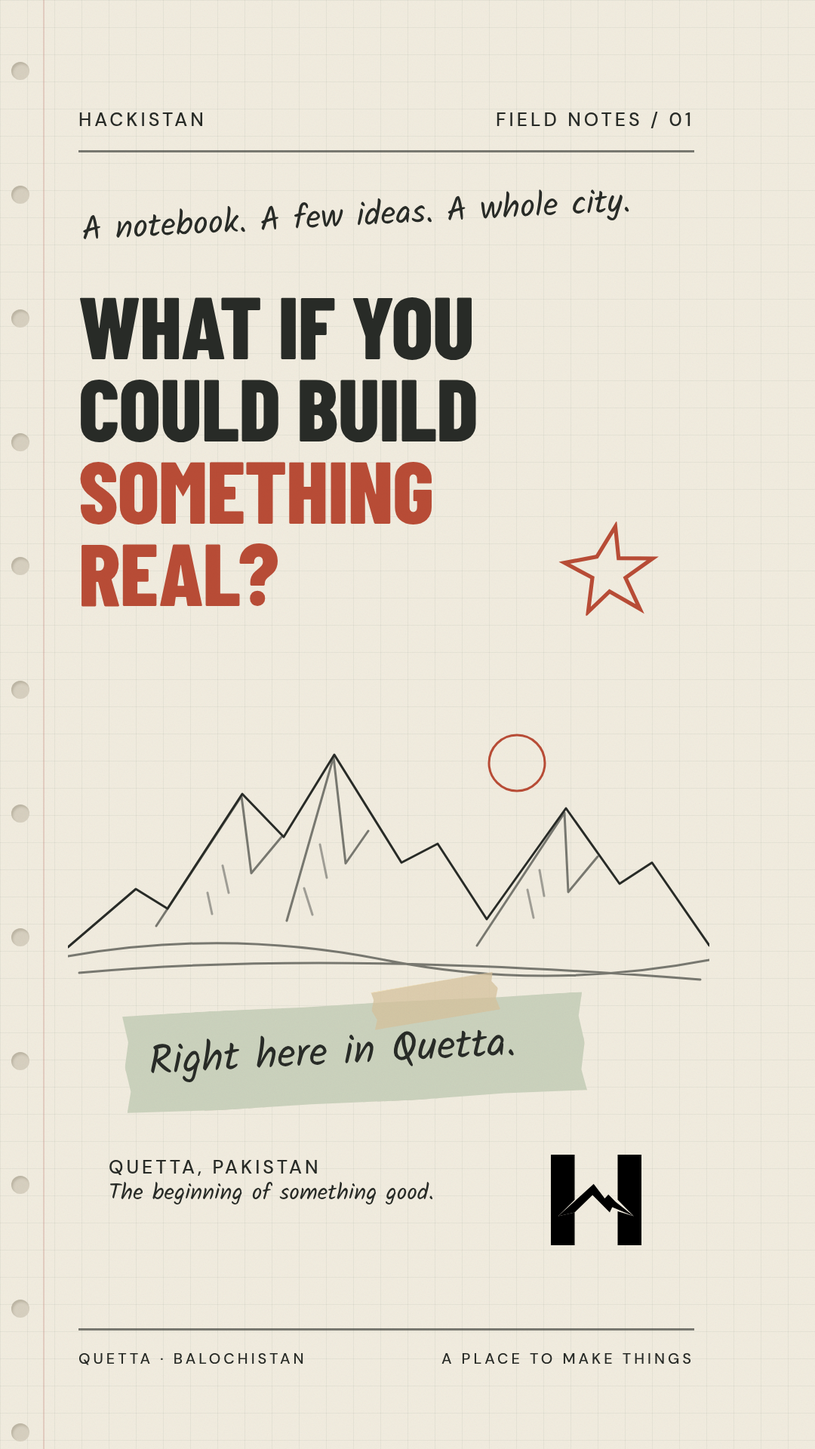
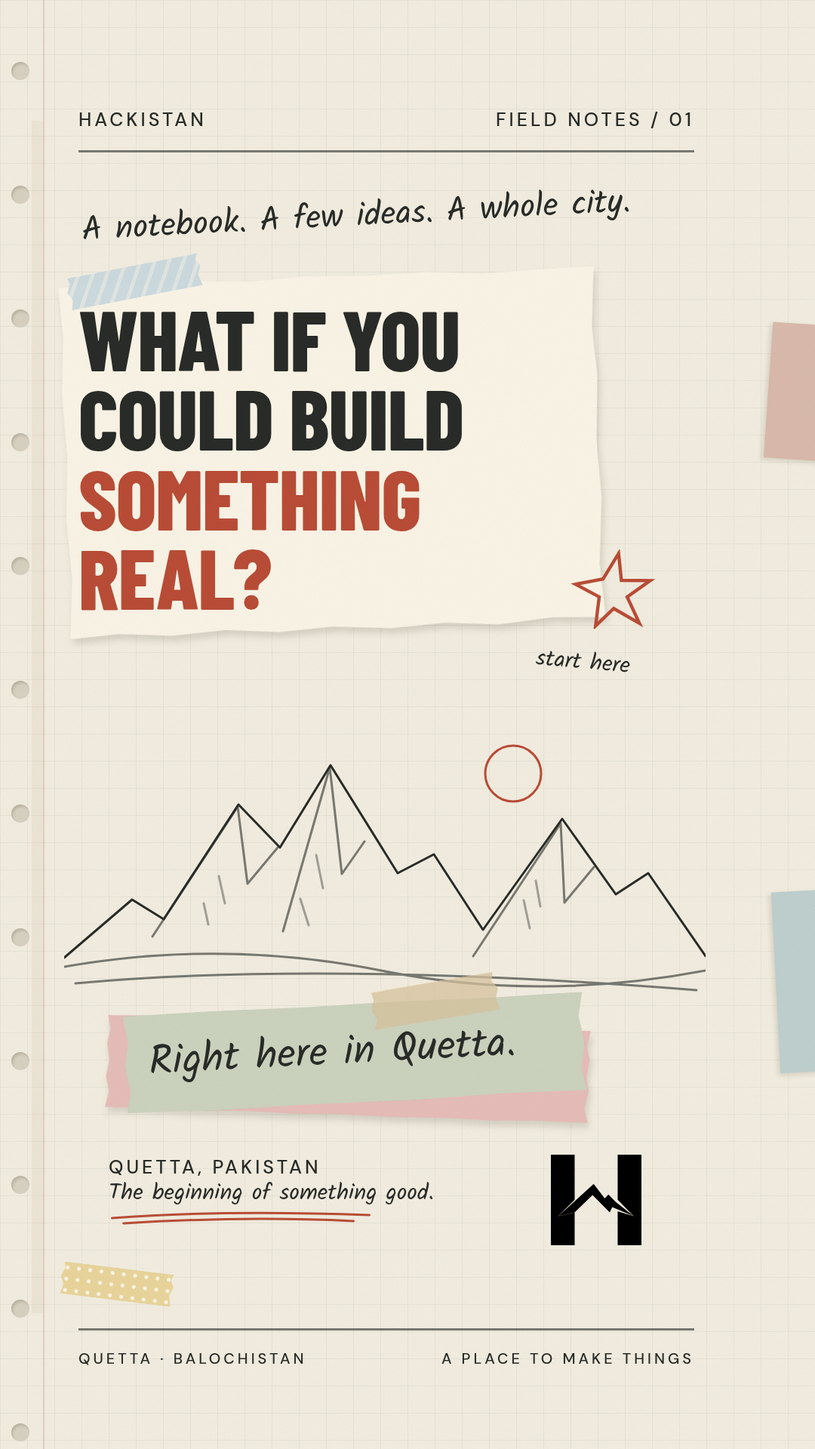
Refine storyboard into layered handmade scrapbook collage

diff --git a/video/src/scenes.tsx b/video/src/scenes.tsx
@@ -1,42 +1,93 @@
 import {Box,Hand,Tape,TornPaper,Mountains,Star,DrawnArrow,AssetSlot,PolaroidCard,Sketch,NotebookPage,Sticker,CheckItem,red,sage} from './components';
+import {Scrap,Washi,Clip,Stamp,Underline,Tag,PencilRoute,colors} from './collage';
+
 export const Hook=()=> <NotebookPage n={1}>
 <Box x={108} y={260} rotate={-3}><Hand size={44}>A notebook. A few ideas. A whole city.</Hand></Box>
-<Box x={104} y={375} w={810}><div className="display" style={{fontSize:116}}>WHAT IF YOU<br/>COULD BUILD<br/><span style={{color:red}}>SOMETHING<br/>REAL?</span></div></Box>
-<Box x={739} y={690} rotate={12}><Star size={130}/></Box><Box x={90} y={945} w={850}><Mountains/></Box>
+<Box x={85} y={365} w={710} rotate={-2}><Scrap color="#f9f3e5" height={470}/></Box><Washi x={88} y={352} w={180} rotate={-11} color={colors.blue}/>
+<Box x={104} y={395} w={810}><div className="display" style={{fontSize:112}}>WHAT IF YOU<br/>COULD BUILD<br/><span style={{color:red}}>SOMETHING<br/>REAL?</span></div></Box>
+<Box x={755} y={727} rotate={12}><Star size={110}/></Box><Box x={710} y={860} rotate={5}><Hand size={30}>start here</Hand></Box>
+<Box x={85} y={959} w={850}><Mountains/></Box>
+<Box x={141} y={1355} w={640} rotate={2}><Scrap color={colors.pink} height={123}/></Box>
 <Box x={165} y={1330} w={610} rotate={-3}><TornPaper color={sage}><Hand size={54}>Right here in Quetta.</Hand></TornPaper><Tape x={330}/></Box>
-<Box x={144} y={1530} w={460}><div className="label">QUETTA, PAKISTAN</div><Hand size={30}>The beginning of something good.</Hand></Box>
-<Box x={670} y={1530} w={240}><AssetSlot asset="hackistan" label="Hackistan logo" height={120}/></Box></NotebookPage>;
+<Box x={144} y={1530} w={460}><div className="label">QUETTA, PAKISTAN</div><Hand size={30}>The beginning of something good.</Hand><Underline width={350}/></Box>
+<Box x={670} y={1530} w={240}><AssetSlot asset="hackistan" label="Hackistan logo" height={120}/></Box><Washi x={80} y={1680} w={150} rotate={7} color={colors.yellow} pattern="dots"/>
+</NotebookPage>;
+
 export const Meet=()=> <NotebookPage n={2}>
-<Box x={110} y={266}><Hand size={48}>Meet the people behind the pages.</Hand></Box>
-<Box x={113} y={376} w={790} rotate={-2}><TornPaper><AssetSlot asset="hackistan" label="Authentic Hackistan logo" height={240}/><div className="display" style={{fontSize:134,marginTop:24}}>HACKISTAN</div><div style={{fontSize:39,marginTop:18}}>A HACK CLUB IN QUETTA</div></TornPaper><Tape x={90} rotate={-13}/><Tape x={580} rotate={12}/></Box>
-<Box x={133} y={970} w={710}><Hand size={58}>Student-led.<br/>Built around making.</Hand></Box><Box x={595} y={991} rotate={-8}><DrawnArrow/></Box>
-<Box x={135} y={1190} w={760}><svg width="760" height="150" viewBox="0 0 760 150"><path d="M60 80C200-70 360 190 650 55" fill="none" stroke="#737b66" strokeWidth="4" strokeDasharray="10 13"/><circle cx="60" cy="80" r="14" fill={red}/><circle cx="650" cy="55" r="12" fill={red}/></svg><div style={{display:'flex',justifyContent:'space-between',fontSize:29}}><span>QUETTA</span><span>A GLOBAL MAKER COMMUNITY</span></div></Box>
-<Box x={120} y={1460} w={420} rotate={2}><AssetSlot asset="hackclub" label="Official Hack Club flag" height={160}/></Box><Box x={653} y={1450} w={250} rotate={8}><Sticker asset="orpheus" label="Orpheus sticker"/></Box></NotebookPage>;
+<Box x={110} y={260}><Hand size={46}>Meet the people behind the pages.</Hand></Box>
+<Box x={103} y={394} w={805} rotate={4}><Scrap color={colors.blue} pattern="ruled" height={565}/></Box>
+<Box x={163} y={370} w={730} rotate={-5}><Scrap color={colors.pink} height={570}/></Box>
+<Box x={113} y={376} w={790} rotate={-2}><Scrap><AssetSlot asset="hackistan" label="Authentic Hackistan logo" height={235}/><div className="display" style={{fontSize:134,marginTop:24}}>HACKISTAN</div><div style={{fontSize:39,marginTop:18}}>A HACK CLUB IN QUETTA</div></Scrap><Tape x={90} rotate={-13}/><Washi x={580} y={-10} rotate={12} color={colors.yellow}/></Box>
+<Box x={805} y={420} rotate={14}><Clip/></Box>
+<Box x={145} y={974} w={550} rotate={-4}><Scrap color={colors.yellow} pattern="ruled"><Hand size={51}>Student-led.<br/>Built around making.</Hand></Scrap></Box>
+<Box x={688} y={895} w={215} rotate={9}><Sticker asset="orpheus" label="Orphmoji Yippee" height={230}/></Box>
+<Box x={110} y={1240} w={785} rotate={2}><Scrap pattern="ruled" style={{padding:'25px 30px',height:336}}><div className="label" style={{fontSize:22}}>FROM QUETTA, WITH IDEAS</div><svg width="710" height="100" viewBox="0 0 710 100"><path d="M25 65C180-50 360 150 655 35" fill="none" stroke="#737b66" strokeWidth="3" strokeDasharray="9 10"/><circle cx="25" cy="65" r="9" fill={red}/><circle cx="655" cy="35" r="9" fill={red}/></svg><div style={{display:'flex',justifyContent:'space-between',fontSize:25}}><span>QUETTA</span><span>GLOBAL MAKER COMMUNITY</span></div></Scrap><Tape x={530} rotate={10}/></Box>
+<Box x={145} y={1455} w={390} rotate={-8}><AssetSlot asset="hackclub" label="Official Hack Club flag" height={155}/></Box>
+<Box x={570} y={1495} w={320} rotate={5}><Tag>Find your people.</Tag></Box>
+<Box x={140} y={1640} w={760} rotate={-2}><Hand size={35}>A club for curious minds & busy hands.</Hand></Box>
+</NotebookPage>;
+
 export const Projects=()=> <NotebookPage n={3}>
-<Box x={108} y={261}><div className="display" style={{fontSize:115}}>LESS TALK.<br/><span style={{color:red}}>MORE MAKING.</span></div></Box>
-<Box x={117} y={550} w={475} rotate={-5}><PolaroidCard asset="boba" title="01 / Boba Drops" caption="A member-made website" height={220}/></Box>
-<Box x={485} y={883} w={435} rotate={5}><PolaroidCard asset="bake" title="02 / BakeBuild" caption="CAD-designed cookie cutters" height={220}/></Box>
-<Box x={123} y={1215} w={475} rotate={-3}><PolaroidCard asset="jame" title="03 / Jame Gam" caption="A game made by our team" height={190}/></Box>
-<Box x={647} y={605} rotate={9}><Hand size={38}>From an idea<br/>to a real thing.</Hand><DrawnArrow/></Box>
-<Box x={120} y={985} w={140} rotate={-8}><Sticker asset="bobaSticker" label="Boba Drops sticker" height={180}/></Box><Box x={280} y={1060} rotate={-8}><Hand size={33}>Made here.</Hand></Box><Box x={650} y={1375} w={240} rotate={3}><Hand size={43} color={red}>Built by<br/>teenagers<br/>in Quetta.</Hand></Box></NotebookPage>;
-const Note=({kind,title,color='#faf6ea'}:{kind:number;title:string;color?:string})=><TornPaper color={color} style={{height:242,padding:26}}><Sketch kind={kind}/><Hand size={38}>{title}</Hand></TornPaper>;
+<Box x={96} y={267} w={810}><div className="display" style={{fontSize:109}}>LESS TALK.<br/><span style={{color:red}}>MORE MAKING.</span></div></Box><Washi x={714} y={300} w={180} rotate={14} color={colors.pink}/>
+<Box x={98} y={513} w={650} rotate={2}><Scrap color={colors.blue} height={370}/></Box>
+<Box x={110} y={497} w={630} rotate={-4}><PolaroidCard asset="boba" title="01 / Boba Drops" caption="A member-made website" height={250}/></Box>
+<Box x={725} y={565} w={180} rotate={8}><Scrap color={colors.yellow}><Hand size={31}>idea →<br/>website!</Hand></Scrap></Box>
+<Box x={758} y={735} w={145} rotate={12}><Sticker asset="bobaSticker" label="Boba Drops sticker" height={190}/></Box>
+<Box x={360} y={882} w={570} rotate={-4}><Scrap color={colors.pink} pattern="ruled" height={414}/></Box>
+<Box x={385} y={896} w={540} rotate={4}><PolaroidCard asset="bake" title="02 / BakeBuild" caption="" height={265}/></Box><Washi x={760} y={895} w={150} rotate={14} color={colors.blue} pattern="check"/>
+<Box x={103} y={953} w={235} rotate={-8}><Tag>Made here.</Tag><Hand size={34}>CAD →<br/>cookie cutters</Hand><DrawnArrow/></Box>
+<Box x={126} y={1285} w={665} rotate={3}><Scrap color={sage} height={362}/></Box>
+<Box x={105} y={1270} w={660} rotate={-3}><PolaroidCard asset="jame" title="03 / Jame Gam" caption="A game made by our team" height={250}/></Box>
+<Box x={790} y={1370} w={130} rotate={8}><Sticker asset="godot" label="Godot Juice" height={175}/></Box>
+<Box x={625} y={1645} w={315} rotate={-4}><Stamp>BUILT IN QUETTA</Stamp></Box><Box x={135} y={1680}><Hand size={30}>Built by teenagers.</Hand></Box>
+</NotebookPage>;
+
+const Idea=({kind,title,note,color=colors.ivory,height=250}:{kind:number;title:string;note?:string;color?:string;height?:number})=><Scrap color={color} pattern="ruled" height={height} style={{padding:23}}><Sketch kind={kind}/><Hand size={40}>{title}</Hand>{note?<Hand size={25} color="#5e665b">{note}</Hand>:null}</Scrap>;
 export const Create=()=> <NotebookPage n={4}>
-<Box x={108} y={270} w={810}><div className="display" style={{fontSize:112}}>WHAT WILL<br/><span style={{color:red}}>YOU MAKE?</span></div><Hand size={43}>Six starting points. Your own direction.</Hand></Box>
-<Box x={122} y={639} w={355} rotate={-5}><Note kind={0} title="Coding"/></Box><Box x={548} y={684} w={348} rotate={4}><Note kind={1} title="Web development" color={sage}/></Box>
-<Box x={144} y={955} w={355} rotate={3}><Note kind={2} title="Game development" color="#e9c5b2"/></Box><Box x={547} y={1004} w={348} rotate={-4}><Note kind={3} title="CAD"/></Box>
-<Box x={127} y={1278} w={355} rotate={-3}><Note kind={4} title="PCB design"/></Box><Box x={553} y={1321} w={348} rotate={4}><Note kind={5} title="3D printing" color={sage}/></Box>
-<Box x={796} y={542} w={120} rotate={12}><Sticker asset="godot" label="Godot Juice sticker" height={150}/></Box><Box x={757} y={1202} w={150} rotate={-8}><Sticker asset="solder" label="Soldering sticker" height={135}/></Box>
-<Box x={160} y={1615} rotate={-2}><Hand size={43}>Experiment. Make mistakes. Try again.</Hand></Box></NotebookPage>;
+<Box x={105} y={265}><div className="display" style={{fontSize:105}}>WHAT WILL<br/><span style={{color:red}}>YOU MAKE?</span></div></Box>
+<Box x={610} y={309} w={295} rotate={7}><Scrap color={colors.yellow}><Hand size={35}>ideas for<br/>a rainy day...</Hand><Star size={45}/></Scrap></Box>
+<Box x={110} y={515}><Hand size={37}>Start anywhere. Follow your curiosity.</Hand></Box>
+<Box x={125} y={628} w={390} rotate={-9}><Idea kind={0} title="Coding" note="one line at a time" color={colors.blue} height={252}/><Tape x={80}/></Box>
+<Box x={468} y={700} w={448} rotate={5}><Idea kind={1} title="Web development" note="put your idea online" height={260}/><Washi x={240} y={-15} color={colors.pink}/></Box>
+<Box x={92} y={945} w={490} rotate={-3}><Idea kind={2} title="Game development" note="make a world of your own" color={colors.pink} height={265}/></Box>
+<Box x={476} y={955} w={110} rotate={12}><Sticker asset="godot" label="Godot Juice" height={150}/></Box>
+<Box x={655} y={1075} w={245} rotate={10}><Idea kind={3} title="CAD" color={colors.yellow} height={220}/><Box x={175} y={-25} rotate={-8}><Clip/></Box></Box>
+<Box x={140} y={1270} w={370} rotate={-7}><Idea kind={4} title="PCB design" color={sage} height={260}/><Washi x={70} y={-15} color={colors.blue}/></Box>
+<Box x={475} y={1372} w={420} rotate={5}><Idea kind={5} title="3D printing" note="from screen to something real" height={270}/></Box>
+<Box x={346} y={1220} w={190} rotate={-13}><Sticker asset="solder" label="Soldering" height={180}/></Box>
+<Box x={538} y={610} rotate={-15}><Hand size={30}>what if...?</Hand><Underline width={140}/></Box>
+<Box x={555} y={1160}><PencilRoute w={150} h={195} d="M5 5Q110 55 55 173m-16-15 16 15 18-19"/></Box>
+<Box x={105} y={1585} w={340} rotate={-4}><Tag>Try. Tinker. Repeat.</Tag></Box>
+<Box x={180} y={1690}><Hand size={31}>Good ideas leave pencil marks.</Hand></Box>
+</NotebookPage>;
+
 export const Opportunities=()=> <NotebookPage n={5}>
-<Box x={108} y={270}><div className="display" style={{fontSize:106}}>SMALL STARTS.<br/><span style={{color:red}}>REAL POSSIBILITIES.</span></div></Box>
-<Box x={120} y={564} w={775} rotate={-3}><TornPaper><div className="label" style={{color:red}}>AT HACKISTAN</div><Hand size={58}>Learn by doing.</Hand><div style={{fontSize:41,lineHeight:1.5}}><CheckItem checked>Hands-on workshops</CheckItem><CheckItem checked>Make things together</CheckItem><CheckItem>Your next project</CheckItem></div></TornPaper><Tape x={550}/></Box>
-<Box x={148} y={990} w={730} rotate={3}><TornPaper color={sage}><div className="label">THROUGH HACK CLUB PROGRAMS</div><Hand size={54}>Build on your own, too.</Hand><div style={{fontSize:38,lineHeight:1.45,marginTop:14}}>Grow useful skills.<br/>Build your portfolio.<br/>Explore eligible rewards & grants.</div><div style={{fontSize:25,marginTop:25,borderTop:'1px solid #777d6c',paddingTop:14}}>Program criteria apply. Opportunities vary.</div></TornPaper><Tape x={70} rotate={10}/></Box>
-<Box x={163} y={1510} rotate={-5}><Hand size={63} color={red}>Ship your project!</Hand></Box><Box x={730} y={1475} w={155} rotate={8}><Sticker asset="ship" label="Ship sticker" height={155}/></Box></NotebookPage>;
+<Box x={100} y={259} w={825}><div className="display" style={{fontSize:96}}>SMALL STARTS.<br/><span style={{color:red}}>REAL POSSIBILITIES.</span></div></Box><Box x={104} y={460}><Underline width={400}/></Box>
+<Box x={133} y={570} w={725} rotate={4}><Scrap color={colors.blue} pattern="grid" height={354}/></Box>
+<Box x={102} y={552} w={720} rotate={-4}><Scrap pattern="ruled"><div className="label" style={{color:red,fontSize:23}}>AT HACKISTAN</div><Hand size={56}>Learn by doing.</Hand><div style={{fontSize:36,lineHeight:1.55}}><CheckItem checked>Hands-on workshops</CheckItem><CheckItem checked>Make things together</CheckItem><CheckItem>Your next project</CheckItem></div></Scrap><Tape x={50}/></Box>
+<Box x={755} y={625} w={175} rotate={12}><Sticker asset="journal" label="Journpheus" height={240}/></Box>
+<Box x={137} y={930} w={385} rotate={-7}><Tag color={colors.pink}>Keep a project notebook.</Tag></Box>
+<Box x={123} y={1055} w={785} rotate={-2}><Scrap color={colors.yellow} height={570}/></Box>
+<Box x={156} y={1040} w={742} rotate={2}><Scrap color={sage} height={570}><div className="label" style={{fontSize:22}}>THROUGH HACK CLUB PROGRAMS</div><Hand size={50}>Build independently.</Hand></Scrap><Washi x={460} y={-14} color={colors.blue} pattern="check"/></Box>
+<Box x={115} y={1200} w={420} rotate={-7}><Scrap pattern="ruled" height={235}><Hand size={44}>Useful skills.<br/>A growing portfolio.</Hand><Underline width={280}/><Hand size={26}>Save what you make.</Hand></Scrap></Box>
+<Box x={545} y={1240} w={340} rotate={6}><Scrap color={colors.pink} height={238} style={{padding:22}}><div className="label" style={{fontSize:20}}>EXPLORE</div><Hand size={40}>Eligible rewards<br/>& grants</Hand><div style={{fontSize:23,marginTop:9}}>Program criteria apply.<br/>Opportunities vary.</div></Scrap></Box>
+<Box x={182} y={1475} w={395} rotate={-5}><AssetSlot asset="hackclub" label="Hack Club flag" height={110}/><Hand size={27}>A wider maker community.</Hand></Box>
+<Box x={683} y={1465} w={170} rotate={8}><Sticker asset="ship" label="Ship" height={180}/></Box>
+<Box x={150} y={1660} w={650} rotate={-2}><Hand size={45} color={red}>Make something. Then share it.</Hand></Box>
+</NotebookPage>;
+
 export const Join=()=> <NotebookPage n={6}>
-<Box x={112} y={270} rotate={-3}><Hand size={47}>You don’t need to be an expert.</Hand></Box>
-<Box x={135} y={390} w={740} rotate={2}><TornPaper><AssetSlot asset="hackistan" label="Authentic Hackistan logo" height={205}/></TornPaper><Tape x={75}/></Box>
-<Box x={113} y={740} w={810}><div className="display" style={{fontSize:101}}>THE NEXT THING<br/>WE BUILD COULD<br/>BE <span style={{color:red}}>YOURS.</span></div></Box>
-<Box x={155} y={1090} rotate={-3}><Hand size={51}>Just bring an idea.</Hand></Box>
+<Box x={112} y={263} rotate={-3}><Hand size={47}>You don’t need to be an expert.</Hand></Box>
+<Box x={112} y={419} w={760} rotate={-4}><Scrap color={colors.blue} pattern="ruled" height={270}/></Box>
+<Box x={135} y={390} w={740} rotate={2}><Scrap><AssetSlot asset="hackistan" label="Authentic Hackistan logo" height={205}/></Scrap><Tape x={75}/><Washi x={540} y={-6} color={colors.pink} rotate={10}/></Box>
+<Box x={748} y={575} w={180} rotate={8}><Tag>Made in Quetta</Tag></Box>
+<Box x={113} y={740} w={810}><div className="display" style={{fontSize:101}}>THE NEXT THING<br/>WE BUILD COULD<br/>BE <span style={{color:red}}>YOURS.</span></div><Underline width={470}/></Box>
+<Box x={134} y={1085} w={540} rotate={-4}><Scrap color={colors.yellow} style={{padding:'15px 25px'}}><Hand size={48}>Just bring an idea.</Hand></Scrap></Box><Box x={723} y={1085}><Star size={90}/></Box>
+<Box x={94} y={1276} w={805} rotate={2}><Scrap color={colors.pink} height={150}/></Box>
 <Box x={116} y={1250} w={788} rotate={-2}><TornPaper color={red} style={{padding:'38px 28px',textAlign:'center'}}><div className="display" style={{fontSize:98,color:'#fff8e7'}}>JOIN HACKISTAN</div></TornPaper></Box>
-<Box x={288} y={1445} w={450}><div style={{fontSize:41,letterSpacing:8,textAlign:'center'}}>LINK IN BIO</div></Box>
-<Box x={100} y={1555} w={220} rotate={-9} style={{padding:12,background:"#fffaf0",boxShadow:"2px 5px 8px #282b2720"}}><Tape x={25} y={-16} rotate={5}/><AssetSlot asset="boba" label="Project photo" height={118}/></Box><Box x={764} y={1560} w={180} rotate={8}><Sticker asset="orpheus" label="Sticker"/></Box><Box x={423} y={1570}><Star size={75}/></Box></NotebookPage>;
+<Box x={288} y={1450} w={450}><div style={{fontSize:41,letterSpacing:8,textAlign:'center'}}>LINK IN BIO</div></Box>
+<Box x={100} y={1570} w={230} rotate={-9} style={{padding:12,background:'#fffaf0',boxShadow:'2px 5px 8px #282b2720'}}><Tape x={25} y={-16} rotate={5}/><AssetSlot asset="boba" label="Project photo" height={118}/></Box>
+<Box x={306} y={1558} w={235} rotate={7} style={{padding:12,background:'#fffaf0',boxShadow:'2px 5px 8px #282b2720'}}><AssetSlot asset="jame" label="Jame Gam photo" height={118}/><Washi x={50} y={-15} color={colors.blue} w={120}/></Box>
+<Box x={750} y={1530} w={180} rotate={8}><Sticker asset="orpheus" label="Orpheus" height={190}/></Box>
+<Box x={575} y={1585} w={150} rotate={-6}><Hand size={32}>Your page<br/>is next.</Hand><Underline width={140}/></Box>
+</NotebookPage>;

diff --git a/video/src/components.tsx b/video/src/components.tsx
@@ -6,7 +6,7 @@ export const Box=({x=0,y=0,w,rotate=0,children,style={}}:{x?:number;y?:number;w?
 export const Hand=({children,size=40,color=ink}:{children:React.ReactNode;size?:number;color?:string})=><div className="hand" style={{fontSize:size,color}}>{children}</div>;
 export const Tape=({x=0,y=-24,rotate=-7}:{x?:number;y?:number;rotate?:number})=><Box x={x} y={y} w={170} rotate={rotate} style={{height:52,background:'#d6c29cbb',clipPath:'polygon(2% 0,98% 3%,96% 25%,100% 45%,97% 70%,99% 100%,0 96%,3% 72%,0 46%,3% 21%)',borderTop:'1px solid #f6e6bf'}}/>;
 export const PaperTexture=()=> <svg className="grain" width="1080" height="1920"><filter id="grain"><feTurbulence type="fractalNoise" baseFrequency=".65" numOctaves="3" seed="17" stitchTiles="stitch"/></filter><rect width="100%" height="100%" filter="url(#grain)" opacity=".45"/></svg>;
-export const NotebookPage=({n,children}:{n:number;children:React.ReactNode})=><AbsoluteFill className="page grid"><div style={{position:'absolute',left:57,top:0,height:'100%',borderLeft:'2px solid #bd716740'}}/>{Array.from({length:12},(_,i)=><div key={i} style={{position:'absolute',left:15,top:82+i*164,width:24,height:24,borderRadius:20,background:'#d7d0c0',boxShadow:'inset 2px 3px 3px #71665140'}}/>)}<Box x={104} y={142} w={816}><div className="label">HACKISTAN <span style={{float:'right'}}>FIELD NOTES / 0{n}</span></div><div className="rule" style={{marginTop:24}}/></Box>{children}<Box x={104} y={1760} w={816}><div className="rule"/><div className="label" style={{marginTop:24,fontSize:20}}>QUETTA · BALOCHISTAN <span style={{float:'right'}}>A PLACE TO MAKE THINGS</span></div></Box><PaperTexture/></AbsoluteFill>;
+export const NotebookPage=({n,children}:{n:number;children:React.ReactNode})=><AbsoluteFill className="page grid"><div style={{position:'absolute',left:57,top:0,height:'100%',borderLeft:'2px solid #bd716740'}}/>{Array.from({length:12},(_,i)=><div key={i} style={{position:'absolute',left:15,top:82+i*164,width:24,height:24,borderRadius:20,background:'#d7d0c0',boxShadow:'inset 2px 3px 3px #71665140'}}/>)}<div style={{position:"absolute",left:1018,top:430,width:110,height:180,rotate:"4deg",background:"#d8b9aa",boxShadow:"-3px 3px 6px #40301b24"}}/><div style={{position:"absolute",left:1028,top:1180,width:90,height:240,rotate:"-3deg",background:"#becfcd",boxShadow:"-3px 3px 6px #40301b24"}}/><div style={{position:"absolute",left:42,top:160,width:15,height:1580,background:"#a88d6e15"}}/><Box x={104} y={142} w={816}><div className="label">HACKISTAN <span style={{float:'right'}}>FIELD NOTES / 0{n}</span></div><div className="rule" style={{marginTop:24}}/></Box>{children}<Box x={104} y={1760} w={816}><div className="rule"/><div className="label" style={{marginTop:24,fontSize:20}}>QUETTA · BALOCHISTAN <span style={{float:'right'}}>A PLACE TO MAKE THINGS</span></div></Box><PaperTexture/></AbsoluteFill>;
 export const TornPaper=({children,color='#faf6ea',style={}}:{children:React.ReactNode;color?:string;style?:React.CSSProperties})=><div className="paper" style={{background:color,padding:32,clipPath:'polygon(0 1%,18% 0,39% 1%,60% 0,82% 1%,100% 0,99% 24%,100% 51%,99% 78%,100% 99%,82% 98%,63% 100%,40% 99%,20% 100%,0 98%,1% 77%,0 52%,1% 27%)',...style}}>{children}</div>;
 export const Mountains=()=> <svg width="100%" viewBox="0 0 850 380" fill="none" stroke={ink} strokeWidth="3" strokeLinecap="round" strokeLinejoin="round"><path d="M0 310 90 233 132 259 231 107 286 164 353 55 442 198 490 173 555 273 660 126 731 226 774 198 850 308"/><path d="m117 282 113-172 13 102 40-48m7 111 62-217 16 141 30-43m144 152 116-176 5 105 39-47M0 322q211-37 420 5t430 0M15 344q330-30 823 9" opacity=".6"/><path d="m205 202 8 36m-28 0 6 28m143-92 9 44m-30 14 11 35m301-59 6 34m-22-8 8 37" opacity=".4"/><circle cx="595" cy="66" r="37" stroke={red}/></svg>;
 export const Star=({size=90}:{size?:number})=><svg width={size} height={size} viewBox="0 0 100 100"><path d="m49 5 10 31 34-7-23 25 21 28-34-11-17 25-3-35-31-9 31-13Z" fill="none" stroke={red} strokeWidth="4"/></svg>;

diff --git a/video/src/collage.tsx b/video/src/collage.tsx
@@ -1,0 +1,11 @@
+import React from 'react';
+import {Box,Hand,ink,red} from './components';
+export const colors={ivory:'#fff8e7',pink:'#e5bcb8',blue:'#c3d5dc',yellow:'#e6cf8d',sage:'#cbd2bd'};
+// Repeated materials, with deliberately irregular cut edges and local paper shadows.
+export const Scrap=({children,color=colors.ivory,pattern='plain',height,style={}}:{children?:React.ReactNode;color?:string;pattern?:'plain'|'ruled'|'grid';height?:number;style?:React.CSSProperties})=><div style={{filter:'drop-shadow(3px 7px 5px #453d282a)'}}><div style={{position:'relative',backgroundColor:color,height,padding:28,backgroundImage:pattern==='ruled'?'repeating-linear-gradient(0deg,transparent 0px,transparent 37px,#56685b28 38px,transparent 39px)':pattern==='grid'?'linear-gradient(#536a7220 1px,transparent 1px),linear-gradient(90deg,#536a7220 1px,transparent 1px)':undefined,backgroundSize:pattern==='grid'?'27px 27px':undefined,clipPath:'polygon(0 1%,7% 0,15% 1.1%,25% .2%,36% 1%,46% 0,57% .5%,69% 0,79% 1%,90% .3%,100% 0,99.3% 17%,100% 31%,99.4% 49%,100% 65%,99.2% 84%,100% 99%,90% 98.5%,80% 100%,70% 99%,60% 100%,49% 99%,39% 100%,29% 98.9%,19% 100%,9% 99%,0 100%,.7% 83%,0 66%,.6% 49%,0 31%,.6% 15%)',...style}}>{children}</div></div>;
+export const Washi=({x=0,y=0,w=180,rotate=0,color=colors.pink,pattern='stripe'}:{x?:number;y?:number;w?:number;rotate?:number;color?:string;pattern?:'stripe'|'dots'|'check'})=><Box x={x} y={y} w={w} rotate={rotate} style={{height:43,opacity:.83,backgroundColor:color,backgroundImage:pattern==='stripe'?'repeating-linear-gradient(120deg,transparent 0 13px,#fff8e769 13px 18px)':pattern==='dots'?'radial-gradient(#fff8e7 2px,transparent 3px)':'repeating-linear-gradient(90deg,transparent 0 16px,#fff8e75a 16px 19px),repeating-linear-gradient(0deg,transparent 0 16px,#fff8e75a 16px 19px)',backgroundSize:pattern==='dots'?'15px 15px':undefined,clipPath:'polygon(2% 0,99% 0,97% 20%,100% 40%,97% 65%,99% 100%,1% 100%,3% 70%,0 45%,3% 20%)'}}/>;
+export const Clip=()=> <svg width="45" height="116" viewBox="0 0 45 116" style={{filter:'drop-shadow(2px 2px 1px #0003)'}}><path d="M13 85V19q0-12 10-12t10 12v74q0 15-14 15T5 93V25m11 0v65q0 5 5 5t5-5V22" stroke="#847d6d" fill="none" strokeWidth="4"/><path d="M13 85V19q0-12 10-12t10 12v74" stroke="#e4dfd0" fill="none" strokeWidth="1"/></svg>;
+export const Stamp=({children,color=red}:{children:React.ReactNode;color?:string})=><div style={{border:`3px solid ${color}`,outline:`1px solid ${color}`,outlineOffset:-8,padding:'15px 21px',color,fontSize:24,letterSpacing:3,fontFamily:'Barlow Condensed',fontWeight:800,textAlign:'center',opacity:.85}}>{children}</div>;
+export const Underline=({width=300}:{width?:number})=><svg width={width} height="25" viewBox="0 0 300 25" preserveAspectRatio="none"><path d="M4 13Q128 2 296 9M17 20Q152 10 278 17" stroke={red} strokeWidth="3" fill="none" strokeLinecap="round"/></svg>;
+export const Tag=({children,color=colors.yellow}:{children:React.ReactNode;color?:string})=><div style={{position:'relative',background:color,padding:'16px 22px 16px 48px',boxShadow:'3px 4px 5px #453d2820',clipPath:'polygon(22px 0,100% 0,100% 100%,22px 100%,0 50%)'}}><span style={{position:'absolute',left:16,top:'45%',width:9,height:9,borderRadius:'50%',background:'#e9e2d3',boxShadow:'inset 1px 1px 2px #0005'}}/><Hand size={31}>{children}</Hand></div>;
+export const PencilRoute=({d,w=400,h=220}:{d:string;w?:number;h?:number})=><svg width={w} height={h} viewBox={`0 0 ${w} ${h}`}><path d={d} fill="none" stroke={ink} strokeWidth="2.6" strokeDasharray="7 8" strokeLinecap="round" opacity=".65"/></svg>;

diff --git a/video/src/config.ts b/video/src/config.ts
@@ -18,5 +18,8 @@ export const assets: Record<string,string|null> = {
  godot:'assets/stickers/Godot Juice.webp',
  solder:'assets/stickers/Soldering.webp',
  bobaSticker:'assets/stickers/Boba Drops.webp',
+ journal:'assets/stickers/Journpheus.webp',
+ laptops:'assets/stickers/Orpheus and Heidi Laptops.webp',
+ nest:'assets/stickers/Nest Hatched Smolpheus.webp',
  members:null,
 };

diff --git a/docs/STORYBOARD.md b/docs/STORYBOARD.md
@@ -16,3 +16,19 @@ These are representative finished layouts, not yet animation keyframes. No motio
 Uploaded logos, project images and authentic stickers are now used throughout. Scene 03 preserves the real projects and their framing. Scene 04 combines original notebook sketches with supplied Godot and soldering stickers. Scene 05 uses drawn ink checkboxes and the supplied Ship sticker; it omits the optional workshop photograph because none was supplied. Jame Gam remains limited by the resolution of the supplied screenshot.
 
 Reusable pieces: NotebookPage, PaperTexture, TornPaper, PolaroidCard, Tape, Sticker, Hand, DrawnArrow, Mountains, Sketch, AssetSlot. Frame-based SketchReveal, AnimatedCaption and SceneTransition belong to Phase B. Geometry and paper grain are deterministic; there is no Math.random, CSS animation or asynchronous remote font loading.
+
+
+## Revision 2 — tactile collage refinement
+
+The six pages share ivory, charcoal, rust, sage, dusty pink, pale blue and muted yellow. Recurring ruled inserts, double pencil underlines, hand-cut tags, patterned washi, paper clips and edge tabs establish one notebook world. Original branding and screenshots remain unaltered.
+
+- **01:** retains the large question and mountains, adding a taped headline scrap, layered location label and a small pencil note.
+- **02:** stacks pink/blue paper behind the logo, tucks Orpheus into the student-led note, and assembles a correspondence-style Quetta/community insert with a flag and tag.
+- **03:** enlarges all three project image areas; overlaps Polaroids and colored backing sheets, with Boba peeking out and a CAD annotation beside BakeBuild. All project images and titles remain recognizable. The prior frame remains accessible in Git history.
+- **04:** replaces equal grid tiles with staggered, varied scraps. Godot touches the game note, soldering overlaps the PCB page, and a pencil connection runs toward the 3D printing note.
+- **05:** replaces long paragraphs with a workshop checklist, a notebook tag and a grouped Hack Club program collage: skills/portfolio insert, eligibility note, official flag and Ship sticker. Journpheus joins the local checklist. The program heading and eligibility qualifications remain visible.
+- **06:** retains the logo, headline and red CTA; adds layered backing, a location tag, memo note and overlapping callbacks to the website/game projects.
+
+Reference availability: fetched both GitHub branches and inspected repository/shared files; no newly mentioned scrapbook reference images were available. This revision follows the user's detailed written direction and the existing authentic asset collection. A location was requested asynchronously; no reference-specific match is claimed.
+
+All deliverables remain static. Animation, transitions and timed captions are not implemented or approved.

diff --git a/docs/VALIDATION.md b/docs/VALIDATION.md
@@ -15,3 +15,13 @@ Completed on 13 November 2026. Static storyboard approval is still pending.
 - No animation, narration, music or MP4 rendered. Phase B awaits explicit storyboard approval.
 
 Reproduce from `video/`: `npm ci`, `npm run typecheck`, `npm run storyboards`. The rendering script uses installed Chromium by default; override its path with `REMOTION_BROWSER_EXECUTABLE` if needed. The render manifest records dimensions and browser path. Image files and a Markdown gallery are committed under `output/storyboards/` for direct GitHub review.
+
+
+## Revision 2 validation
+
+- TypeScript passed after the collage rewrite; six 1080 × 1920 PNGs rendered successfully with installed Chromium.
+- All six revised pages inspected individually, plus their contact sheet. Corrections made after the first render: moved the BakeBuild description into a visible side annotation, separated the web/game notes, attached the CAD clip at the paper edge, removed an unsupported arrow glyph and reduced distracting edge tabs.
+- Contact sheet and render manifest identify this as revision 2. Image outputs replace the review paths while the previous version remains in Git history (`0f251a4`).
+- Reusable `Scrap`, `Washi`, `Clip`, `Stamp`, `Underline`, `Tag` and `PencilRoute` components add deterministic, static collage materials. No original uploaded image files changed.
+- New reference images could not be located in fetched branches or shared files; design follows the written refinement brief. Jame Gam retains the supplied low-resolution screenshot.
+- No Phase B animation, MP4 or merge into main.

diff --git a/output/storyboards/README.md b/output/storyboards/README.md
@@ -1,4 +1,6 @@
-# Hackistan · Phase A storyboard review
+# Hackistan · Phase A · Revision 2
+
+Refined toward a richer, layered scrapbook: larger overlapping project photographs, varied idea scraps, paper tags, patterned washi, paper clips and integrated authentic stickers.
 
 Six static pages rendered at **1080 × 1920** using Remotion and installed Chromium. No animation or final MP4 has been produced. Open any image below in GitHub to inspect it; use GitHub's download button for the original PNG.
 
@@ -23,3 +25,5 @@ Six static pages rendered at **1080 × 1920** using Remotion and installed Chrom
 ![Join Hackistan](06-join.png)
 
 **Approval checkpoint:** review the typography, paper aesthetic, layouts and authentic asset placements. Phase B starts only after your approval.
+
+[Previous storyboard for comparison](https://github.com/WockoPayaz/hackistan-intro-reel/blob/0f251a4582c08db13d5d1c41d04560cae2389b8f/output/storyboards/contact-sheet.png)

diff --git a/README.md b/README.md
@@ -1,10 +1,10 @@
 # Hackistan — scrapbook reel
 
-**Phase A: awaiting storyboard approval.** Six static designs, not the final animated video. All work is on `feature/hackistan-intro-reel`; nothing is merged into main.
+**Phase A, revision 2: awaiting storyboard approval.** Six static designs, not the final animated video. All work is on `feature/hackistan-intro-reel`; nothing is merged into main.
 
 ## Review in Chrome
 
-**Rendered and inspected:** all six PNGs and the contact sheet are available below.
+**Rendered and inspected:** the revised six PNGs and contact sheet are available below. This pass adds layered torn papers, patterned washi, handwritten tags, larger project images, an organic idea board and a redesigned opportunities collage.
 
 Open [the contact sheet](output/storyboards/contact-sheet.png), then tap a full-size page:
 
